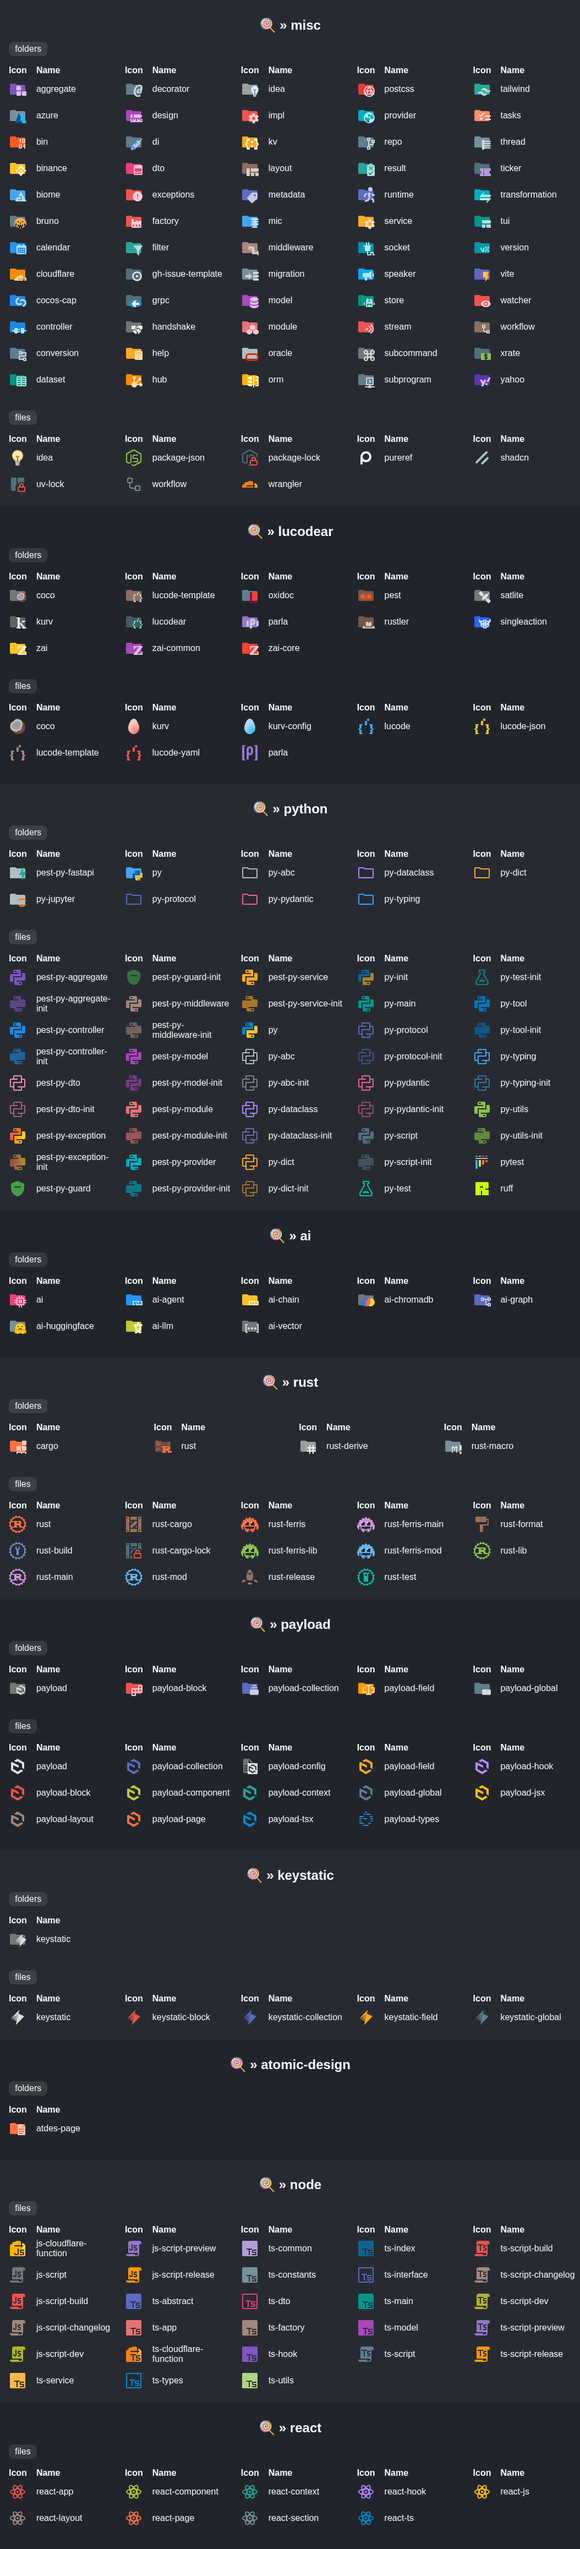
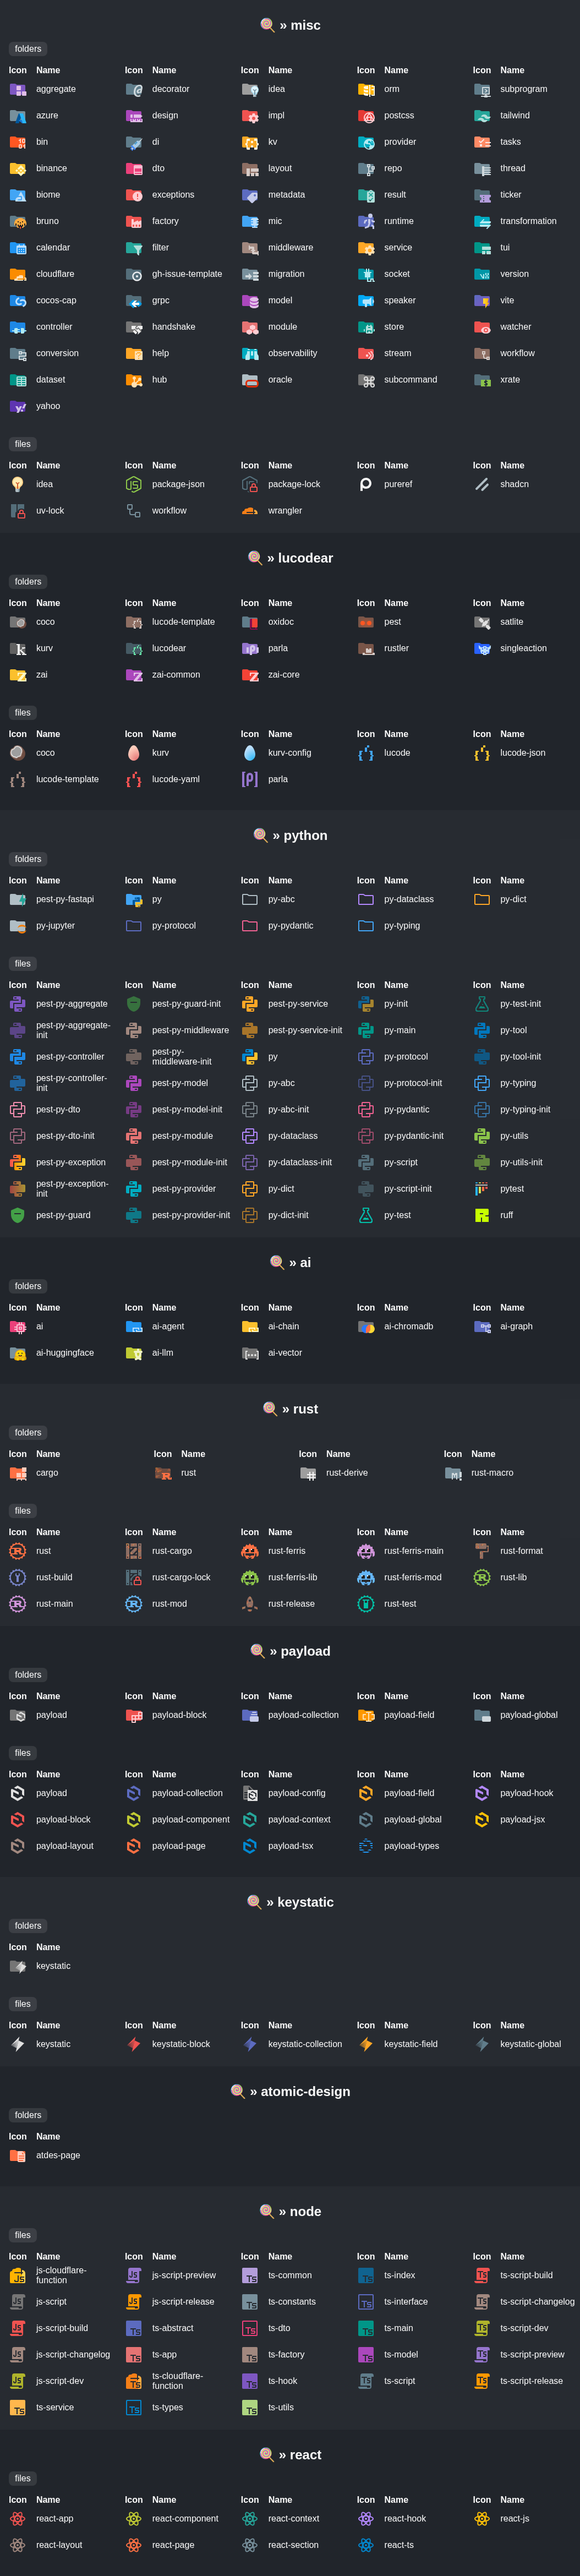
release: 🔖 v1.33.0

diff --git a/CHANGELOG.md b/CHANGELOG.md
@@ -3,10 +3,17 @@
  All notable changes to this project will be documented in this file. Dates are displayed in UTC.
 
  
+#### [v1.33.0](https://github.com/lucodear/lucodear-icons/compare/v1.32.0...v1.33.0) 
+
+> October 10, 2025 
+
+- feat: ✨ add new folder type for observability [`cc59f6f6`](https://github.com/lucodear/lucodear-icons/commit/cc59f6f6)
+ 
 #### [v1.32.0](https://github.com/lucodear/lucodear-icons/compare/v1.31.0...v1.32.0) 
 
 > October 10, 2025 
 
+- release: 🔖 v1.32.0 [`f702451f`](https://github.com/lucodear/lucodear-icons/commit/f702451f)
 - feat: ✨ add new folder types for dataset and kv storage [`#129`](https://github.com/lucodear/lucodear-icons/pull/129)
 - feat: ✨ add new folder icon for Data Access Layer [`#3203`](https://github.com/lucodear/lucodear-icons/pull/3203)
 - feat: clone `bashly-hook` icon for Bashly strings file [`#3209`](https://github.com/lucodear/lucodear-icons/pull/3209)
